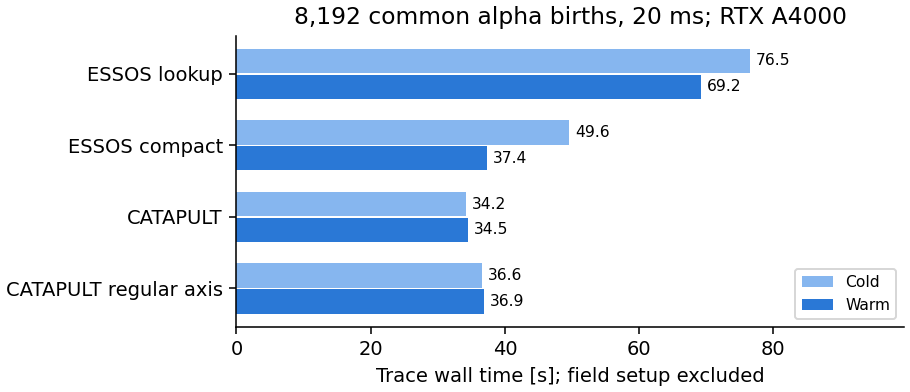
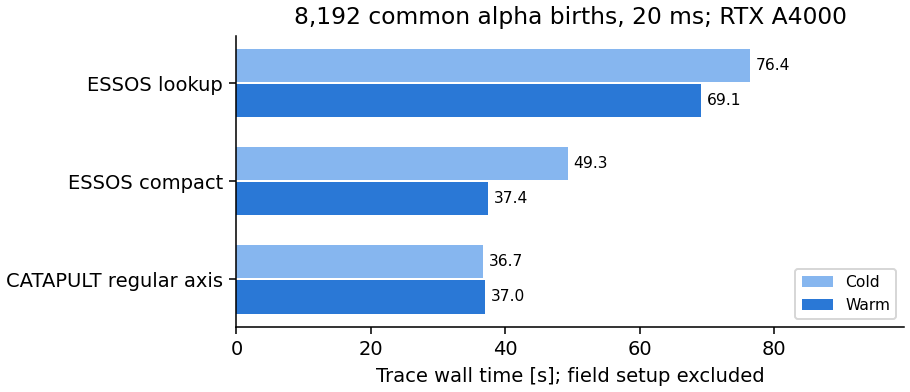
Refresh matched tracing with the bound alpha mass

diff --git a/docs/make_readme_boozer_figure.py b/docs/make_readme_boozer_figure.py
@@ -7,11 +7,12 @@ matplotlib.use("Agg")
 import matplotlib.pyplot as plt
 import numpy as np
 
-# ESSOS 7200cc7, JAX 0.9.2, fresh processes with compilation caches disabled.
-# CATAPULT released and opt-in FIRM3D #90; field setup excluded.
-names = ["ESSOS lookup", "ESSOS compact", "CATAPULT", "CATAPULT regular axis"]
-cold = [76.521, 49.589, 34.17, 36.61]
-warm = [69.178, 37.354, 34.48, 36.88]
+# ESSOS 1307356 + mass fix 9ab3e36, JAX 0.9.2; compilation caches disabled.
+# FIRM3D 4dbeb5e + non-MPI guard #91; mass 6.6446573450e-27 kg; setup excluded.
+# Record: https://github.com/uwplasma/vmex/pull/516 (benchmarks/trace_accuracy.json).
+names = ["ESSOS lookup", "ESSOS compact", "CATAPULT regular axis"]
+cold = [76.399, 49.287, 36.694]
+warm = [69.062, 37.418, 37.044]
 y = np.arange(len(names))
 fig, ax = plt.subplots(figsize=(6.5, 2.8), constrained_layout=True)
 for offset, values, color, label in [(-0.18, cold, "#86b6ef", "Cold"),

diff --git a/README.md b/README.md
@@ -170,16 +170,15 @@ The RTX A4000 comparison uses 8,192 common births for 20 ms and 101 requested ti
 
 | Tracer | Lost / 8,192 | Matching labels | Cold trace | Warm trace | Maximum energy drift |
 |---|---:|---:|---:|---:|---:|
-| ESSOS [GPU lookup #98](https://github.com/uwplasma/ESSOS/pull/98) | 6,577 | 8,192 | 76.52 s | 69.18 s | 2.08e-5, every step |
-| ESSOS [compaction #100](https://github.com/uwplasma/ESSOS/pull/100), opt-in | 6,577 | 8,192 | 49.59 s | 37.35 s | 2.08e-5, every step |
-| CATAPULT released | 6,647 | 8,122 | 34.17 s | 34.48 s | 5.17e-2, saved confined paths |
-| CATAPULT [regular axis #90](https://github.com/ColumbiaStellaratorTheory/firm3d/pull/90), opt-in | 6,578 | 8,191 | 36.61 s | 36.88 s | 1.17e-5, saved confined paths |
+| ESSOS [GPU lookup #98](https://github.com/uwplasma/ESSOS/pull/98) | 6,572 | 8,192 | 76.40 s | 69.06 s | 2.14e-5, every step |
+| ESSOS [compaction #100](https://github.com/uwplasma/ESSOS/pull/100), opt-in | 6,572 | 8,192 | 49.29 s | 37.42 s | 2.14e-5, every step |
+| CATAPULT [regular axis #90](https://github.com/ColumbiaStellaratorTheory/firm3d/pull/90), opt-in | 6,573 | 8,191 | 36.69 s | 37.04 s | 1.36e-5, saved confined paths |
 
-Measurements use the earlier ESSOS alpha mass, `6.6951e-27 kg`. Cold ESSOS traces use fresh processes with compilation caches disabled; field setup adds 1.44–1.48 s. Compaction preserves every output and benefits from losses occurring before 0.16 ms; CATAPULT truncates lost paths, while ESSOS returns all requested states.
+Mass: `6.6446573450e-27 kg`; cold traces use fresh processes, with ESSOS compilation caches disabled. Setup adds 1.19–1.30 s for ESSOS (saved tables) and 8.70 s for CATAPULT (includes Boozer transform). Compaction preserves recorded arrays; ESSOS returns 101 states per birth, while CATAPULT truncates lost paths.
 
-The [comparison guide](https://github.com/uwplasma/vmex/pull/516) records settings, field errors and orbit checks. One regular-axis label depends on the mode cut; QA long-orbit labels remain unconverged.
+The [comparison guide](https://github.com/uwplasma/vmex/pull/516) records settings, field errors and orbit checks. One corrected-mass loss label differs; its convergence is untested. Earlier QA long-orbit labels remain unconverged.
 
-The 64-birth, 2 ms comparison uses the same reactor-scaled seed. CPU timings use an i7-3820 with eight workers/devices; DESC and the GPU ESSOS row use the RTX A4000.
+The earlier 64-birth, 2 ms comparison uses the same seed with mass `6.6951e-27 kg`. CPU timings use an i7-3820 with eight workers/devices; DESC and the GPU ESSOS row use the RTX A4000.
 
 | Tracer | Loss result | Warm trace | Maximum energy drift |
 |---|---:|---:|---:|
@@ -197,7 +196,7 @@ Shaded loss bands use the pointwise binomial standard error `f(t) ± sqrt(f(t)[1
 
 | Code | Orbit models | CPU / GPU | Collisions | Differentiation |
 |---|---|---|---|---|
-| ESSOS Boozer | guiding centre, RK4 | both (JAX) | yes | JAX RHS; public trace returns NumPy |
+| ESSOS Boozer | guiding centre, RK4; [Dopri8 #103](https://github.com/uwplasma/ESSOS/pull/103), opt-in | both (JAX) | yes | JAX RHS; public trace returns NumPy |
 | ESSOS VMEC/coil | guiding centre; full orbit | both (JAX) | yes | JAX trajectories |
 | [SIMPLE](https://github.com/itpplasma/SIMPLE) | guiding centre, symplectic or adaptive | CPU; optional CUDA, unbenchmarked here | no | none documented |
 | [SIMSOPT](https://simsopt.readthedocs.io/v0.9.4/tracing.html) | guiding centre; full orbit | CPU | no in tested model | none documented |
